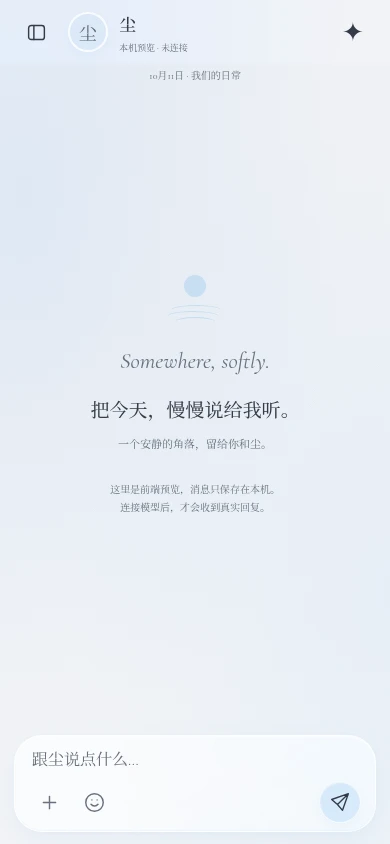
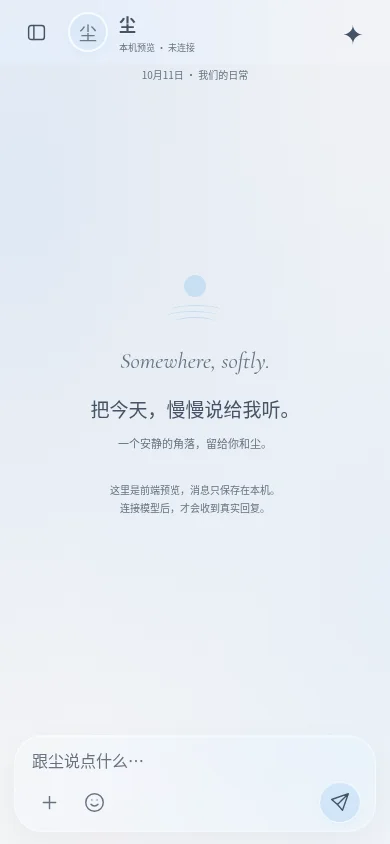
Redesign home widgets and add transparent water-glass chat surfaces

diff --git a/src/style.css b/src/style.css
@@ -235,3 +235,54 @@ h1,.welcome-en,.usage-values strong,.anniversary-horizontal .day-count>span{font
 .field input[type=range]::-moz-range-track{height:5px;border-radius:8px;background:rgb(var(--tint) / .18)}
 .field input[type=range]::-moz-range-progress{height:5px;border-radius:8px;background:var(--accent)}
 .field input[type=range]::-moz-range-thumb{width:22px;height:22px;border-radius:50%;border:1px solid rgb(255 255 255 / .65);background:var(--solid);box-shadow:0 2px 7px rgb(0 0 0 / .12)}
+/* Paper, expression and stacked-memory cards share the desktop's square cells. */
+.home-desktop .paper-widget,.home-desktop .face-widget,.home-desktop .stacked-widget{padding:14px;position:relative;background:rgb(var(--glass-tint) / .2);border:1px solid rgb(255 255 255 / .3);box-shadow:inset 0 1px 0 rgb(255 255 255 / .22),0 8px 24px rgb(0 0 0 / .035)}
+.paper-widget:after{content:'';position:absolute;right:0;top:0;width:27px;height:27px;background:color-mix(in srgb,var(--accent) 50%,var(--solid));clip-path:polygon(0 0,100% 100%,100% 0);pointer-events:none}
+.paper-widget .widget-label{padding-right:16px}
+.home-desktop .paper-widget .note-text{font-size:13px;line-height:1.7;margin-top:10px;-webkit-line-clamp:3}
+.note-footer{justify-content:space-between}
+.note-footer time{font-size:10px;font-variant-numeric:tabular-nums}
+.home-desktop .face-widget{align-items:center;gap:2px;padding:12px 14px}
+.face-widget .widget-label{align-self:flex-start}
+.mood-face{display:grid;place-items:center;width:48px;height:48px;border-radius:50%;flex-shrink:0;background:color-mix(in srgb,var(--mood-color) 58%,var(--solid));color:var(--ink)}
+.mood-face svg{width:100%;height:100%}
+.mood-caption{font-size:11px;line-height:1.4;white-space:nowrap;color:var(--ink)}
+.mood-dots{display:flex;justify-content:center;align-items:center;width:100%;gap:0;margin-top:auto}
+.mood-dots button{display:grid;place-items:center;flex:1;min-width:0;height:44px;padding:0;border-radius:12px}
+.mood-dots button>span{width:13px;height:13px;background:var(--mood-color);border-radius:50%;border:1px solid rgb(255 255 255 / .4)}
+.mood-dots button.selected>span{outline:1.5px solid var(--ink);outline-offset:3px}
+.memory-heading{justify-content:space-between}
+.memory-heading svg{color:var(--ink)}
+.memory-stack{position:relative;display:block;flex:1;min-height:0;margin-top:8px;isolation:isolate}
+.memory-stack:before,.memory-stack:after{content:'';position:absolute;height:24px;border-radius:12px;background:rgb(var(--tint) / .15);bottom:0;left:12px;right:12px;z-index:-2}
+.memory-stack:after{bottom:6px;left:6px;right:6px;background:rgb(var(--tint) / .24);z-index:-1}
+.memory-sheet{position:absolute;inset:0 0 12px;display:flex;flex-direction:column;min-height:0;padding:8px 10px;border-radius:14px;background:rgb(var(--glass-tint) / .28);border:1px solid rgb(255 255 255 / .3)}
+.memory-mark{width:16px;height:3px;border-radius:3px;background:var(--accent);flex-shrink:0}
+.memory-title{display:-webkit-box;-webkit-box-orient:vertical;-webkit-line-clamp:2;overflow:hidden;font-size:12px;line-height:1.5;margin-top:5px;color:var(--ink)}
+.memory-date{margin-top:auto;padding-top:4px;font-size:9px;line-height:1.3;color:var(--muted);font-variant-numeric:tabular-nums}
+.home-desktop .memory-footer{justify-content:flex-end;padding-top:6px;font-size:10px}
+:root[data-theme=dark] .paper-widget,:root[data-theme=dark] .face-widget,:root[data-theme=dark] .stacked-widget{background:rgb(27 29 35 / .3);border-color:rgb(255 255 255 / .09);box-shadow:inset 0 1px 0 rgb(255 255 255 / .035),0 8px 24px rgb(0 0 0 / .08)}
+:root[data-theme=dark] .mood-face{background:color-mix(in srgb,var(--mood-color) 24%,var(--solid))}
+:root[data-theme=dark] .memory-sheet{background:rgb(37 40 47 / .48);border-color:rgb(255 255 255 / .08)}
+@media(max-width:380px){
+ .home-desktop .paper-widget,.home-desktop .stacked-widget{padding:10px}
+ .home-desktop .face-widget{padding:10px;gap:1px}
+ .mood-face{width:36px;height:36px}
+ .mood-caption{font-size:10px}
+ .mood-dots button>span{width:11px;height:11px}
+ .home-desktop .paper-widget .note-text{font-size:11px;margin-top:7px;line-height:1.65}
+ .memory-sheet{padding:6px 7px}
+ .memory-title{font-size:11px;line-height:1.35;margin-top:4px}
+ .memory-date{font-size:8px;padding-top:2px}
+ .home-desktop .memory-footer{font-size:9px;padding-top:4px}
+}
+
+/* Water-glass chat surfaces: transparent fill, soft refraction and a thin bright rim. */
+.composer{background:linear-gradient(145deg,rgb(var(--glass-tint) / .24),rgb(var(--glass-tint) / .08) 65%,rgb(var(--glass-tint) / .16));border-color:rgb(255 255 255 / .4);backdrop-filter:blur(var(--glass-blur)) saturate(160%);-webkit-backdrop-filter:blur(var(--glass-blur)) saturate(160%);box-shadow:inset 0 1px 1px rgb(255 255 255 / .5),inset 0 -1px 1px rgb(255 255 255 / .12),0 8px 30px rgb(0 0 0 / .045)}
+.composer:focus-within{border-color:rgb(var(--tint) / .65);box-shadow:inset 0 1px 1px rgb(255 255 255 / .45),0 0 0 1px rgb(var(--tint) / .1),0 8px 30px rgb(0 0 0 / .045)}
+#sidebar-dialog{background:linear-gradient(155deg,rgb(var(--glass-tint) / .26),rgb(var(--glass-tint) / .12) 60%,rgb(var(--glass-tint) / .2));border-color:rgb(255 255 255 / .3);backdrop-filter:blur(28px) saturate(155%);-webkit-backdrop-filter:blur(28px) saturate(155%);box-shadow:inset -1px 0 1px rgb(255 255 255 / .32),12px 0 45px rgb(0 0 0 / .08)}
+#sidebar-dialog::backdrop{background:rgb(16 22 34 / .12);backdrop-filter:blur(3px);-webkit-backdrop-filter:blur(3px)}
+:root[data-theme=dark] .composer{background:linear-gradient(145deg,rgb(45 48 55 / .32),rgb(24 26 32 / .12) 65%,rgb(38 41 49 / .22));border-color:rgb(255 255 255 / .13);box-shadow:inset 0 1px 1px rgb(255 255 255 / .08),0 8px 30px rgb(0 0 0 / .14)}
+:root[data-theme=dark] #sidebar-dialog{background:linear-gradient(155deg,rgb(34 37 44 / .38),rgb(22 24 30 / .18) 60%,rgb(29 32 39 / .3));border-color:rgb(255 255 255 / .1);box-shadow:inset -1px 0 1px rgb(255 255 255 / .07),12px 0 45px rgb(0 0 0 / .2)}
+:root[data-theme=dark] #sidebar-dialog::backdrop{background:rgb(0 0 0 / .3)}
+.mood-caption{max-width:100%;overflow:hidden;text-overflow:ellipsis}

diff --git a/src/views.js b/src/views.js
@@ -34,11 +34,13 @@ export function home(state,ui={}) {
  const h=state.home,days=daysTogether(h.since),memories=state.memories.filter(m=>!isExpired(m)),editing=!!ui.editing;
  const label=type=>escape(h.widgetTitles?.[type]||widgetLabels[type]);
  const chosen=memories.find(m=>m.id===h.memoryId)||memories[0];
+ const moods=[['开心','#f4d66e','<circle cx="22" cy="28" r="2.5" fill="currentColor"/><circle cx="42" cy="28" r="2.5" fill="currentColor"/><path d="M20 38Q32 51 44 38"/>'],['平静','#8ed6c0','<path d="M17 29Q22 33 27 29M37 29Q42 33 47 29M26 43Q32 46 38 43"/>'],['疲惫','#b7a2e2','<path d="M17 29H27M37 29H47M26 44H38"/>'],['想念','#f2a7be','<circle cx="22" cy="29" r="2.5" fill="currentColor"/><circle cx="42" cy="29" r="2.5" fill="currentColor"/><path d="M27 43Q32 39 37 43"/>']];
+ const selectedMood=moods.find(m=>m[0]===h.mood)||moods[1],today=new Date();
  const widgets={
  date:`<section class="widget glass date-widget" aria-label="${label('date')}，${new Date().toLocaleDateString('zh-CN')}"><span class="sr-only">${label('date')}</span><div class="calendar-head"><time data-home-clock datetime="${new Date().toISOString()}">${new Date().toLocaleTimeString('en-GB',{hour:'2-digit',minute:'2-digit',hour12:false})}</time><span class="calendar-tag">${h.showWeekday!==false?new Date().toLocaleDateString('en-US',{weekday:'short'}).toUpperCase()+' ':''}${new Date().getDate()}</span></div><div class="calendar-divider"></div><div class="calendar-grid">${h.showWeekday!==false?['S','M','T','W','T','F','S'].map((day,i)=>`<span class="calendar-weekday" aria-label="${['星期日','星期一','星期二','星期三','星期四','星期五','星期六'][i]}">${day}</span>`).join(''):''}${calendarWindow().map(day=>`<span class="calendar-day ${day.today?'active':''} ${day.currentMonth?'':'adjacent-month'}" ${day.today?'aria-current="date"':''} aria-label="${day.date}">${day.day}</span>`).join('')}</div></section>`,
- note:`<button class="widget glass note-widget" data-home-action="edit" data-type="note"><span class="widget-label">${icon('note')}${label('note')}</span><p>${escape(h.note||'想记下的事情，放在这里。')}</p><span class="widget-foot">${icon('edit')}轻点编辑</span></button>`,
- mood:`<section class="widget glass mood-widget"><span class="widget-label">${icon('mood')}${label('mood')}</span><div class="moods">${['开心','平静','疲惫','想念'].map((m,i)=>`<button data-action="mood" data-mood="${m}" class="${h.mood===m?'selected':''}" aria-pressed="${h.mood===m}" aria-label="${m}"><span>${['◡','﹏','−','♡'][i]}</span><small>${m}</small></button>`).join('')}</div><p>${h.mood?`今天，是${escape(h.mood)}的。`:'此刻的心情是什么？'}</p></section>`,
- memory:`<button class="widget glass memory-widget" data-action="memory"><span class="widget-label">${icon('memory')}${label('memory')}</span><p>${escape(chosen?.title||'把重要的事情留下。')}</p><span class="widget-foot">${memories.length} 条记忆 ${icon('chevron')}</span></button>`
+ note:`<button class="widget glass note-widget paper-widget" data-home-action="edit" data-type="note"><span class="widget-label">${label('note')}</span><p class="note-text">${escape(h.note||'想记下的事情，放在这里。')}</p><span class="widget-foot note-footer">${icon('edit')}<span class="sr-only">轻点编辑</span><time datetime="${today.getFullYear()}-${String(today.getMonth()+1).padStart(2,'0')}-${String(today.getDate()).padStart(2,'0')}" aria-label="今天 ${today.toLocaleDateString('zh-CN')}">${String(today.getMonth()+1).padStart(2,'0')}.${String(today.getDate()).padStart(2,'0')}</time></span></button>`,
+ mood:`<section class="widget glass mood-widget face-widget"><span class="widget-label">${label('mood')}</span><span class="mood-face" style="--mood-color:${selectedMood[1]}" role="img" aria-label="${h.mood?escape(h.mood):'尚未选择心情'}"><svg viewBox="0 0 64 64" fill="none" stroke="currentColor" stroke-width="2.8" stroke-linecap="round" aria-hidden="true">${selectedMood[2]}</svg></span><span class="mood-caption">${h.mood?`今天，是${escape(h.mood)}的。`:'此刻的心情是什么？'}</span><div class="mood-dots" aria-label="选择今日心情">${moods.map(([m,color])=>`<button data-action="mood" data-mood="${m}" style="--mood-color:${color}" class="${h.mood===m?'selected':''}" aria-pressed="${h.mood===m}" aria-label="${m}"><span aria-hidden="true"></span></button>`).join('')}</div></section>`,
+ memory:`<button class="widget glass memory-widget stacked-widget" data-action="memory"><span class="memory-heading widget-label"><span>${label('memory')}</span>${icon('bookmark')}</span><span class="memory-stack"><span class="memory-sheet"><span class="memory-mark" aria-hidden="true"></span><span class="memory-title">${escape(chosen?.title||'把重要的事情留下。')}</span>${chosen&&Number.isFinite(chosen.created)&&Number.isFinite(new Date(chosen.created).getTime())?`<time class="memory-date" datetime="${new Date(chosen.created).toISOString()}">${new Date(chosen.created).toLocaleDateString('zh-CN',{year:'numeric',month:'2-digit',day:'2-digit'}).replaceAll('/','.')}</time>`:`<span class="memory-date">${chosen?'已保存的记忆':'留给珍贵的日常'}</span>`}</span></span><span class="widget-foot memory-footer">${memories.length} 条记忆 ${icon('chevron')}</span></button>`
  };
  const wrap=(type,content,slot)=>`<div class="home-widget ${type==='anniversary'?'hero-widget':''}" data-home-widget="${type}" style="grid-column:${slot.col} / span ${slot.width};grid-row:${slot.row} / span ${slot.height}" tabindex="0" aria-label="${type==='anniversary'?'纪念日':label(type)}，${editing?'拖拽移动，Alt 加方向键调整位置':'长按或右键打开菜单'}"><div class="widget-surface" ${editing?'inert':''}>${content}</div>${editing?`<div class="widget-drag-surface" aria-hidden="true"></div><button class="widget-remove" data-home-action="hide" data-type="${type}" aria-label="移除${type==='anniversary'?'纪念日':label(type)}">${icon('close')}</button>`:''}</div>`;
  const count=days>0?days:1-(days||0);

diff --git a/docs/CODEX_HANDOFF.md b/docs/CODEX_HANDOFF.md
@@ -35,6 +35,7 @@
 - 纪念日默认开始日期为 2026-07-12；旧数据的 2026-10-07 一次性迁移为该日期，其他已有日期保留，迁移后仍可自由编辑。日期上移至数字上方，保留与数字之间的留白。
 - 日历遵循用户提供的玻璃卡片示例：实时 24 小时时间、星期/日期标签、分隔线、前一周/本周/后一周共 21 天，突出今天，字号在原示例基础上略微放大；跨日刷新，跨月/跨年正确排列，保留星期显示设置与组件名。
 - 主页每页保留 4 列 × 6 行；每格高度由容器宽度计算，宽高相等，不再按屏幕高度拉伸。纪念日占 4×2，今天、便签、心情、记忆收藏各占 2×2 且严格为 1:1。多余屏幕高度留作桌面留白，短屏编辑模式允许纵向滚动，不压扁组件。按组件顺序寻找空位排列，不重写原分页数据。
+- 便签采用主题色折角纸页，保留点击编辑入口，底部日期表示今天（不表示最后修改时间）；心情采用大号 SVG 表情和四色选择点，沿用开心/平静/疲惫/想念四种本机状态；记忆采用叠放卡片，展示用户选中/最近的有效记忆、真实创建日期和有效记忆数量，没有记忆时显示空状态。小字仍使用系统无衬线字体，不照搬示例的宋体或示例内容。
 - 长按或右键主页组件，在组件附近弹出「编辑内容、编辑主页、移除」菜单；支持键盘入口、方向键、Escape 与点击外部关闭。编辑内容只打开当前组件的编辑抽屉。
 - 「编辑主页」进入全局布局模式，直接拖拽组件排序（含纪念日），使用角落的 × 移除，不再提供选中模式或箭头排序，也不打开内容编辑。底部「编辑主页」入口已按用户要求删除，长按组件菜单仍可进入编辑。
 - 主页支持新增分页（最多 12 页）、左右滑动和圆点切换；左右箭头已删除，分页圆点保留，底部留白收紧。编辑模式拖到左右边缘或分页控件停留约 650ms 可翻页并移动组件；拖拽中显示浮起的组件与原位占位，释放才保存，取消不保存。
@@ -48,6 +49,7 @@
 - 左上是侧边栏折叠按钮，不是返回按钮。侧栏有用户资料、导航、置顶与历史会话、新建入口。
 - 完整会话列表支持搜索标题/消息、时间排序、置顶、重命名、删除。
 - 右上 `✦` 是模型选择；冗余的「…」按钮已删除。
+- 输入框与侧边栏为高透水玻璃视觉模拟：中性低透明填充、亮边、柔和反光、背景模糊与饱和度，昼夜分别适配；输入草稿、附件、消息保存和侧栏导航行为保留。
 - 输入框自动增高、最多约六行；发送图标为纸飞机，工具栏有 `+` 和表情入口。
 - 附件、表情和模型选择为从屏幕底部升起的抽屉，覆盖输入框，背景模糊、暂不可交互；支持遮罩、关闭、Escape、拖动横条收起与短拖回弹。
 - 附件入口：相机、图片、文件、MCP 配置。相机行为取决于设备浏览器。

diff --git a/docs/verification.md b/docs/verification.md
@@ -79,3 +79,10 @@
 ## 日间固定深色文字
 
 - 纪念日与日历文字在日间统一为 #465366，切换天蓝/樱粉均不变；夜间使用选中的主题原色，刷新保留。Chromium 实际颜色检查通过，无 JavaScript 错误。
+
+## 水玻璃聊天与新版三组件
+
+- 便签折角纸页、心情表情/四色选择点、记忆叠放卡片参考用户 HTML 示例，沿用原有数据和 2×2 正方形格子；不导入示例假内容、字体或第三方脚本。
+- Chromium 320×640 / 390×844：长便签、长记忆标题与新增卡片元素在组件内；四种心情选择/保存、便签编辑/刷新、记忆入口/真实日期/数量通过。文本转义仍生效。
+- 输入框与侧栏的实际背景为低透明度渐变玻璃；输入草稿在侧栏打开/关闭后保留、消息保存正常、侧栏导航与 Escape 关闭通过。白天与夜间预览均已更新。
+- 实际触摸长按、编辑主页、新增页、跨页拖拽、滑动翻页通过，无 JavaScript 运行错误；20 项测试及所有模块语法检查通过。
